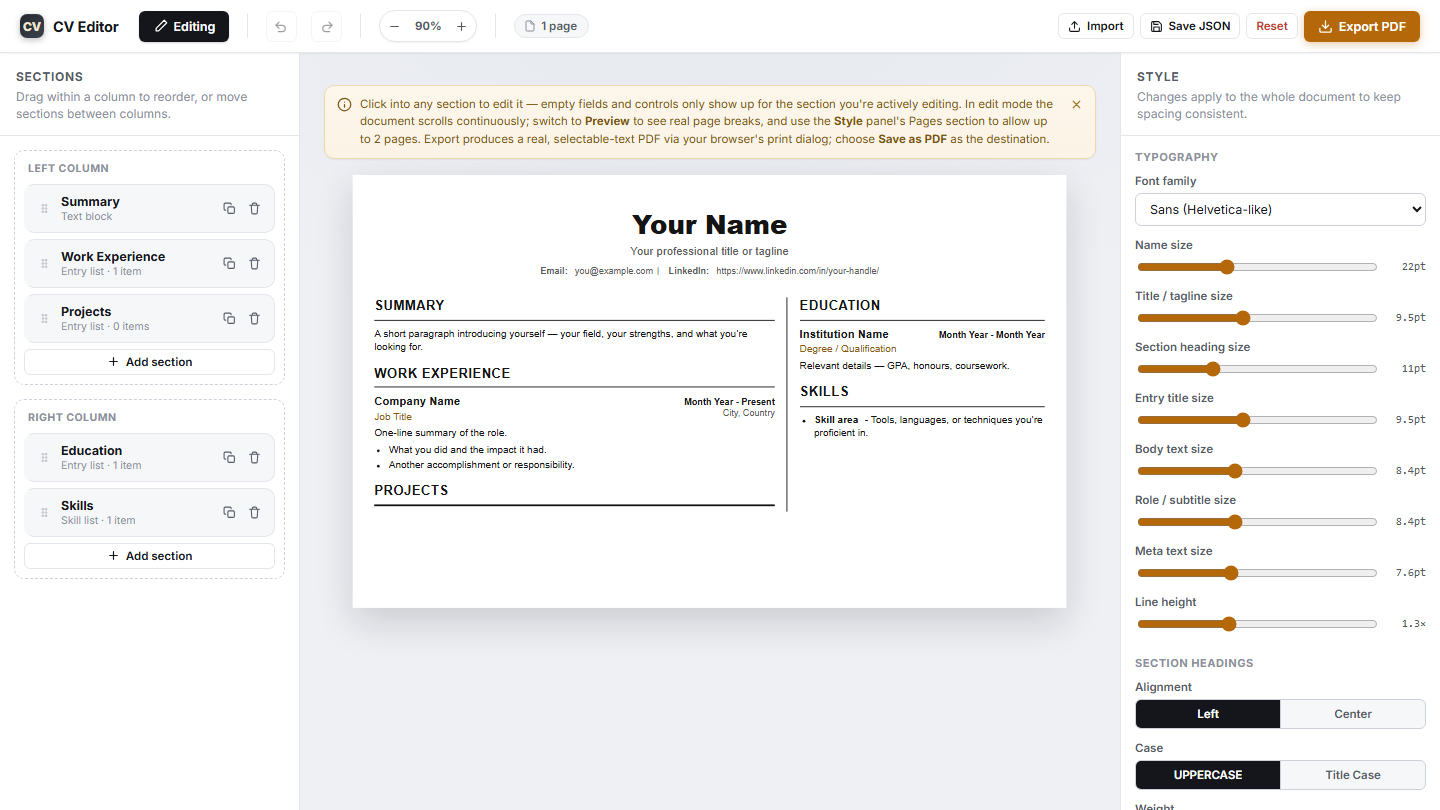
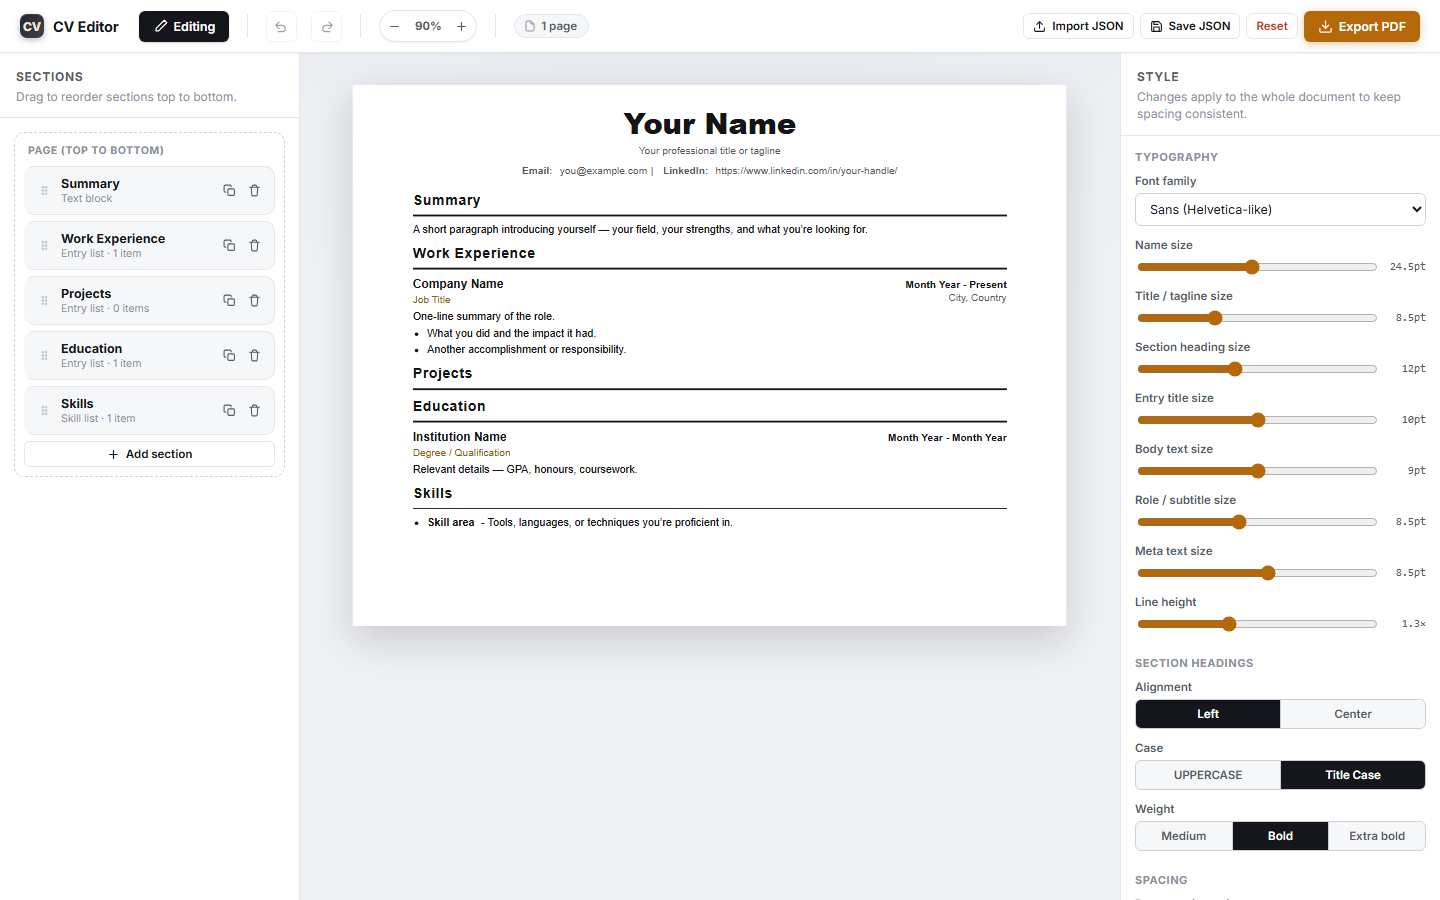
Add live-demo/GitHub link buttons and refresh TaskFlow & CV Editor content
Add direct Live App + GitHub buttons on each project card (and in the
detail modal) for the two deployed web apps, refresh their What/How/Why
copy to match each project's current feature set, and update the
project screenshots to reflect the latest UI.

diff --git a/index.html b/index.html
@@ -75,28 +75,34 @@
 
                         <div class="year-content">
                             <div class="project-card" data-title="TaskFlow: Intelligent Auto-Scheduler"
-                                data-resource="https://martin-jin.github.io/taskflow/"
+                                data-live="https://martin-jin.github.io/taskflow/"
+                                data-resource="https://github.com/Martin-Jin/taskflow" data-resource-label="GitHub"
                                 data-image="project_resources/taskflow.png" data-hours="20 hours"
-                                data-what="Building a task management web app that turns a plain task list into an auto-scheduled calendar.|Designing Calendar, Tasks, Board, Gantt, and Stats views over a single shared task data model.|Implementing a 're-balance schedule' feature that automatically re-slots tasks around fixed commitments and blocked time.|Adding manual overrides such as time-blocking so auto-scheduling respects existing plans."
-                                data-how="Building a responsive single-page app with Day/Week/Month calendar views, a kanban-style board, and a Gantt view driven from the same task store.|Implementing scheduling logic that assigns tasks to open time slots based on duration, deadlines, and existing blocked time.|Adding undo/redo history so scheduling changes can be safely reversed.|Deploying as a static site on GitHub Pages."
-                                data-why="To explore automated scheduling as an alternative to manually dragging tasks around a calendar.|To practice designing a single data model that stays consistent across multiple views (calendar, board, Gantt, stats).|To build a genuinely useful personal productivity tool rather than another static to-do list.">
+                                data-what="Building a standalone task manager and time-blocking calendar that automatically carves out when each task gets worked on, balancing deadlines against real free time instead of just sorting a to-do list.|Designing Dashboard, Calendar, Tasks, Board, Gantt, and Stats views over a single shared task data model, with full drag-and-drop, dependencies, and undo/redo.|Adding optional one-click Todoist import and Google Calendar push, plus optional Google sign-in for cross-device sync via Firebase.|Making the app fully responsive down to phone width, with a bottom tab bar and a guided first-launch tour."
+                                data-how="Building a responsive single-page React app with Dashboard, Day/Week/Month calendar views, a kanban-style board with drag-and-drop, and a Gantt view driven from the same task store.|Implementing scheduling and re-balancing logic that assigns tasks to open time slots based on duration, deadlines, and existing blocked time, with a clickable stat popup showing missed/overdue tasks.|Bringing smart-parsing (natural-language due dates, #project and @label shorthand with live autocomplete) to parity with Todoist's own quick-add UX, verified with a Playwright test suite.|Deploying as a static site on GitHub Pages via a GitHub Actions workflow."
+                                data-why="To explore automated scheduling as an alternative to manually dragging tasks around a calendar.|To practice designing a single data model that stays consistent across multiple views (dashboard, calendar, board, Gantt, stats).|To build a genuinely useful personal productivity tool, with optional Todoist/Google Calendar bridges, rather than another static to-do list.">
                                 <div class="card-header">
                                     <h3>TaskFlow: Intelligent Auto-Scheduler</h3>
                                     <span class="timeline-date">July</span>
                                 </div>
-                                <p>A web app that turns a task list into an auto-scheduled calendar, with board and Gantt views.</p>
+                                <p>A task manager and time-blocking calendar that auto-schedules tasks around deadlines and free time, with board, Gantt, and dashboard views.</p>
                                 <div class="skill-pills">
                                     <span class="pill">Web Dev</span>
                                     <span class="pill">UI/UX</span>
                                     <span class="pill">Programming</span>
                                 </div>
+                                <div class="card-links">
+                                    <a href="https://martin-jin.github.io/taskflow/" target="_blank" rel="noopener" class="link-btn accent-btn">Live App</a>
+                                    <a href="https://github.com/Martin-Jin/taskflow" target="_blank" rel="noopener" class="link-btn">GitHub</a>
+                                </div>
                                 <button class="read-more-btn">View Details &rarr;</button>
                             </div>
                             <div class="project-card" data-title="CV Editor: Resume Builder"
-                                data-resource="https://github.com/Martin-Jin/CVEditor"
+                                data-live="https://martin-jin.github.io/CVEditor/"
+                                data-resource="https://github.com/Martin-Jin/CVEditor" data-resource-label="GitHub"
                                 data-image="project_resources/cvEditor.png" data-hours="35 hours"
-                                data-what="Building a structured, click-to-edit CV/resume builder that runs entirely in the browser, with no backend or accounts.|Designing a section-based document model (text blocks, entry lists, skill lists, label lists) that renders consistently wherever a section type is used.|Implementing a single style panel that drives font, spacing, margins, column widths, rules, bullets, and colour for the whole document.|Adding drag-and-drop reordering, full undo/redo, autosave, and JSON/PDF export."
-                                data-how="Using React 19 and Vite for the UI, with Zustand managing document and theme state plus undo/redo history.|Implementing drag-and-drop section reordering with @dnd-kit.|Generating PDFs client-side with html2canvas and jsPDF, keeping the whole build static and deployable to GitHub Pages.|Structuring section types through a shared schema so new section types and style controls can be added without touching existing renderers."
+                                data-what="Building a structured, click-to-edit CV/resume builder that runs entirely in the browser, with no backend or accounts.|Designing a section-based document model (text blocks, entry lists, skill lists, label lists) that renders consistently wherever a section type is used.|Implementing a single style panel that drives font, spacing, margins, column widths, rules, bullets, and colour for the whole document, including a real single-column reordering mode alongside the two-column layout.|Adding drag-and-drop reordering, full undo/redo, autosave, and JSON/PDF export."
+                                data-how="Using React 19 and Vite for the UI, with Zustand managing document and theme state plus undo/redo history.|Implementing drag-and-drop section reordering with @dnd-kit, including a shared reordering model so single-column and two-column layouts stay consistent.|Exporting to PDF via the browser's native print pipeline, keeping the whole build static and deployable to GitHub Pages through a GitHub Actions workflow.|Structuring section types through a shared schema so new section types and style controls can be added without touching existing renderers, and stripping personal content for a clean public release."
                                 data-why="To have a CV tool I fully control, where layout stays consistent while content stays freely editable.|To practice building a maintainable component and state architecture for a non-trivial client-side React app.|To ship something genuinely useful for myself and reusable by others, rather than another to-do list app.">
                                 <div class="card-header">
                                     <h3>CV Editor: Resume Builder</h3>
@@ -107,6 +113,10 @@
                                     <span class="pill">Web Dev</span>
                                     <span class="pill">React</span>
                                     <span class="pill">UI/UX</span>
+                                </div>
+                                <div class="card-links">
+                                    <a href="https://martin-jin.github.io/CVEditor/" target="_blank" rel="noopener" class="link-btn accent-btn">Live App</a>
+                                    <a href="https://github.com/Martin-Jin/CVEditor" target="_blank" rel="noopener" class="link-btn">GitHub</a>
                                 </div>
                                 <button class="read-more-btn">View Details &rarr;</button>
                             </div>

diff --git a/script.js b/script.js
@@ -151,11 +151,16 @@ document.addEventListener('DOMContentLoaded', () => {
                 }
             }
 
-            // Resource Link
+            // Resource Links (live demo + code repo/files)
             if (resourceAction) {
-                resourceAction.innerHTML = card.dataset.resource
-                    ? `<a href="${card.dataset.resource}" target="_blank" rel="noopener" class="link-btn accent-btn">Project files</a>`
-                    : "";
+                let html = "";
+                if (card.dataset.live) {
+                    html += `<a href="${card.dataset.live}" target="_blank" rel="noopener" class="link-btn accent-btn">Live Demo</a>`;
+                }
+                if (card.dataset.resource) {
+                    html += `<a href="${card.dataset.resource}" target="_blank" rel="noopener" class="link-btn">${card.dataset.resourceLabel || 'Project files'}</a>`;
+                }
+                resourceAction.innerHTML = html;
             }
 
             if (modal) {

diff --git a/style.css b/style.css
@@ -176,8 +176,11 @@ nav { display: flex; justify-content: center; gap: 50px; padding: 25px; }
 
 .image-placeholder { width: 100%; height: 280px; background: var(--bg-light); border-radius: 16px; margin: 20px 0 30px 0; display: flex; align-items: center; justify-content: center; color: var(--text-muted); }
 
-.modal-resource-action:not(:empty) { margin-top: 20px; padding-top: 15px; border-top: 1px solid var(--border); }
+.modal-resource-action:not(:empty) { margin-top: 20px; padding-top: 15px; border-top: 1px solid var(--border); display: flex; flex-wrap: wrap; gap: 12px; }
 .modal-resource-action .link-btn { display: inline-block; text-decoration: none; }
+
+.card-links { display: flex; flex-wrap: wrap; gap: 10px; margin-top: 12px; }
+.card-links .link-btn { padding: 8px 16px; font-size: 0.85rem; border-radius: 8px; }
 
 @keyframes slideUp { from { opacity: 0; transform: translateY(20px); } to { opacity: 1; transform: translateY(0); } }
 
